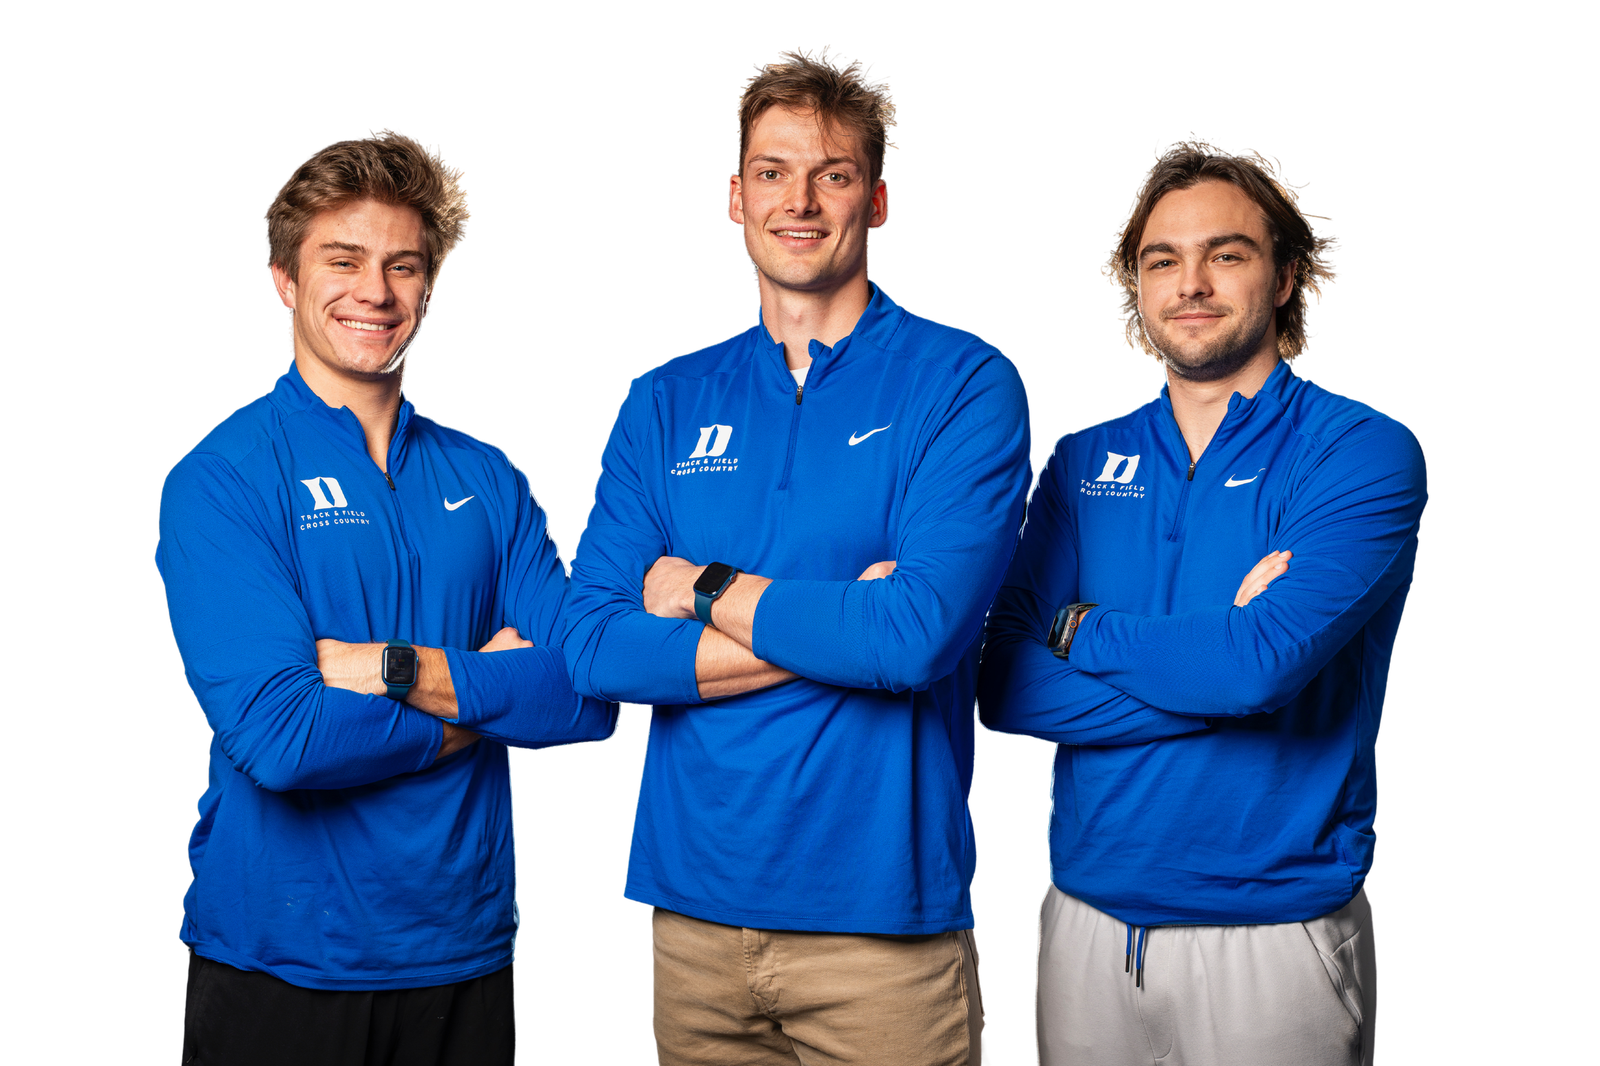
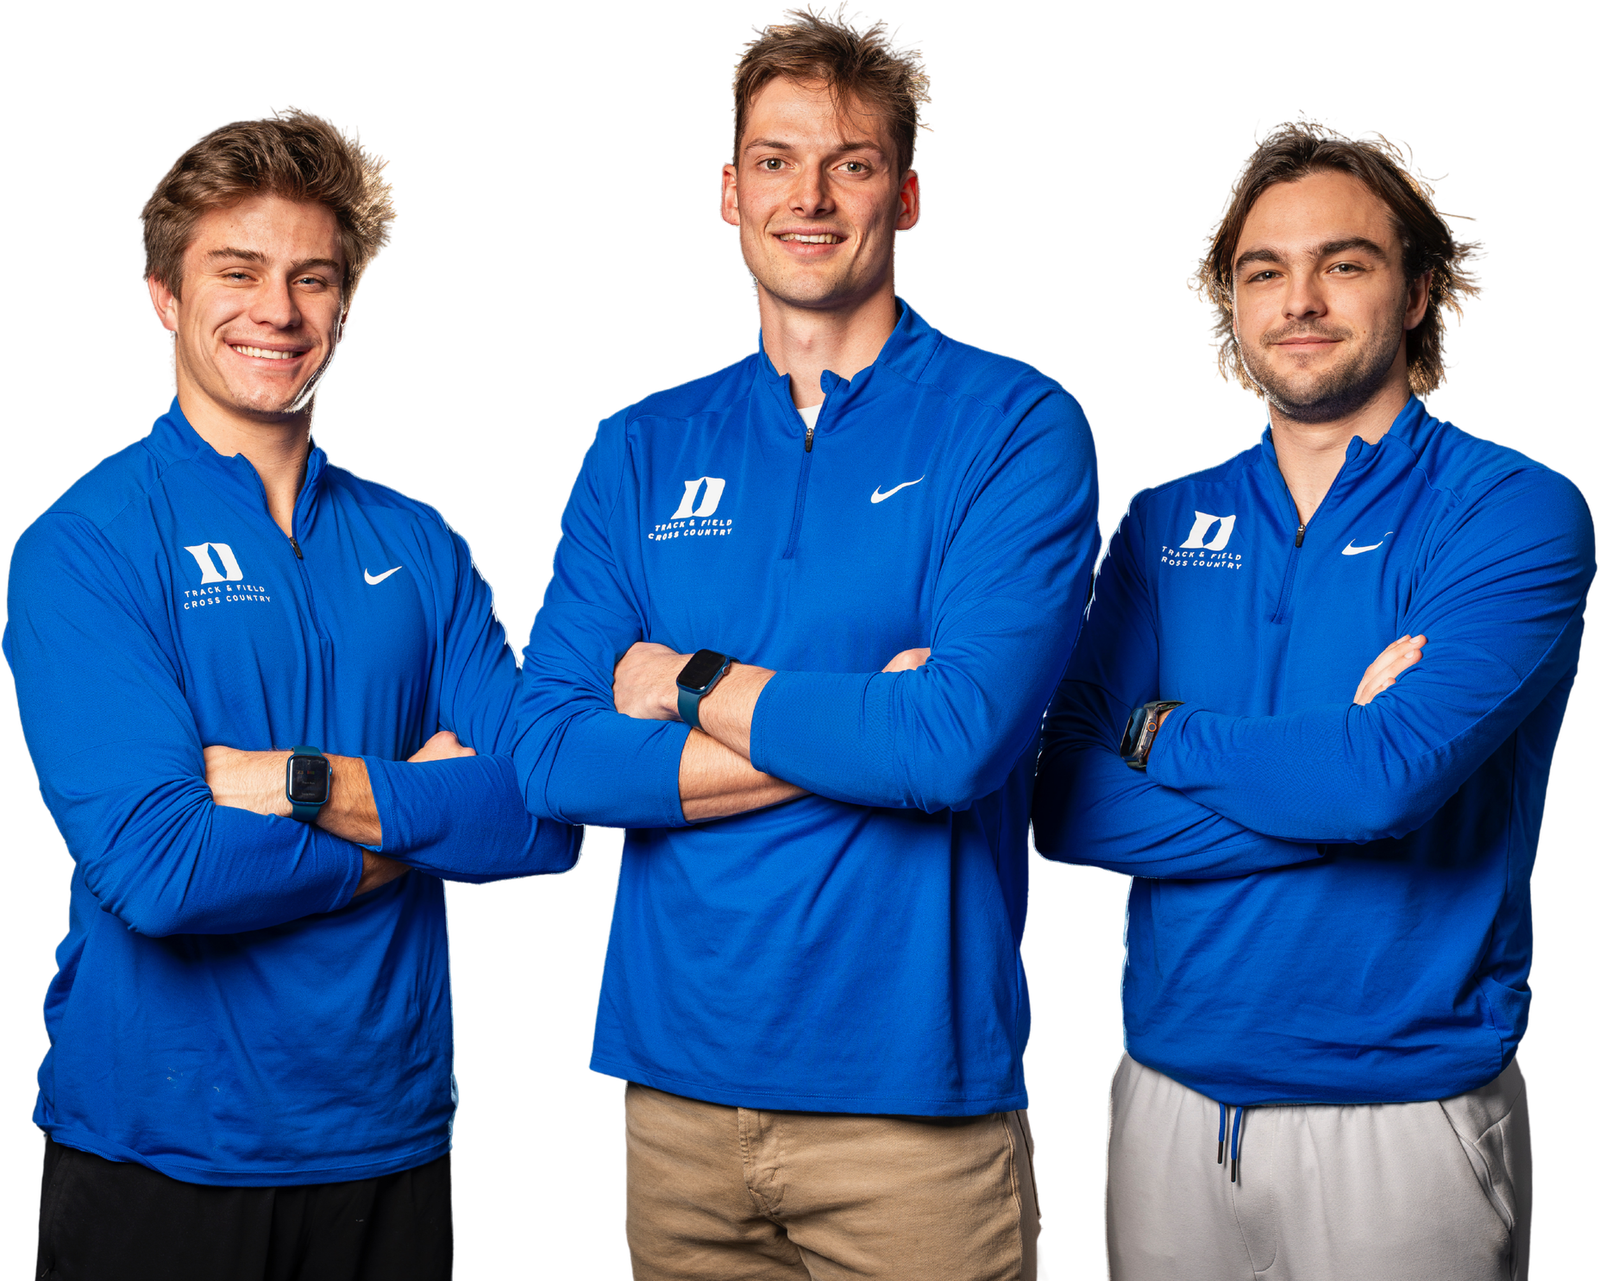
Center the trio cutout against the origin text
Trim the transparent padding from the cutout so its visual center
matches its box, letting the grid centering land properly.

diff --git a/src/app/story/page.tsx b/src/app/story/page.tsx
@@ -101,7 +101,7 @@ export default function StoryPage() {
               src="/photos/trio-cut.png"
               alt="Ewan Bradley, Michael Bennett and Stuart Bladon standing together in Duke blue"
               width={1600}
-              height={1066}
+              height={1281}
               className="h-auto w-full"
               priority={false}
             />
